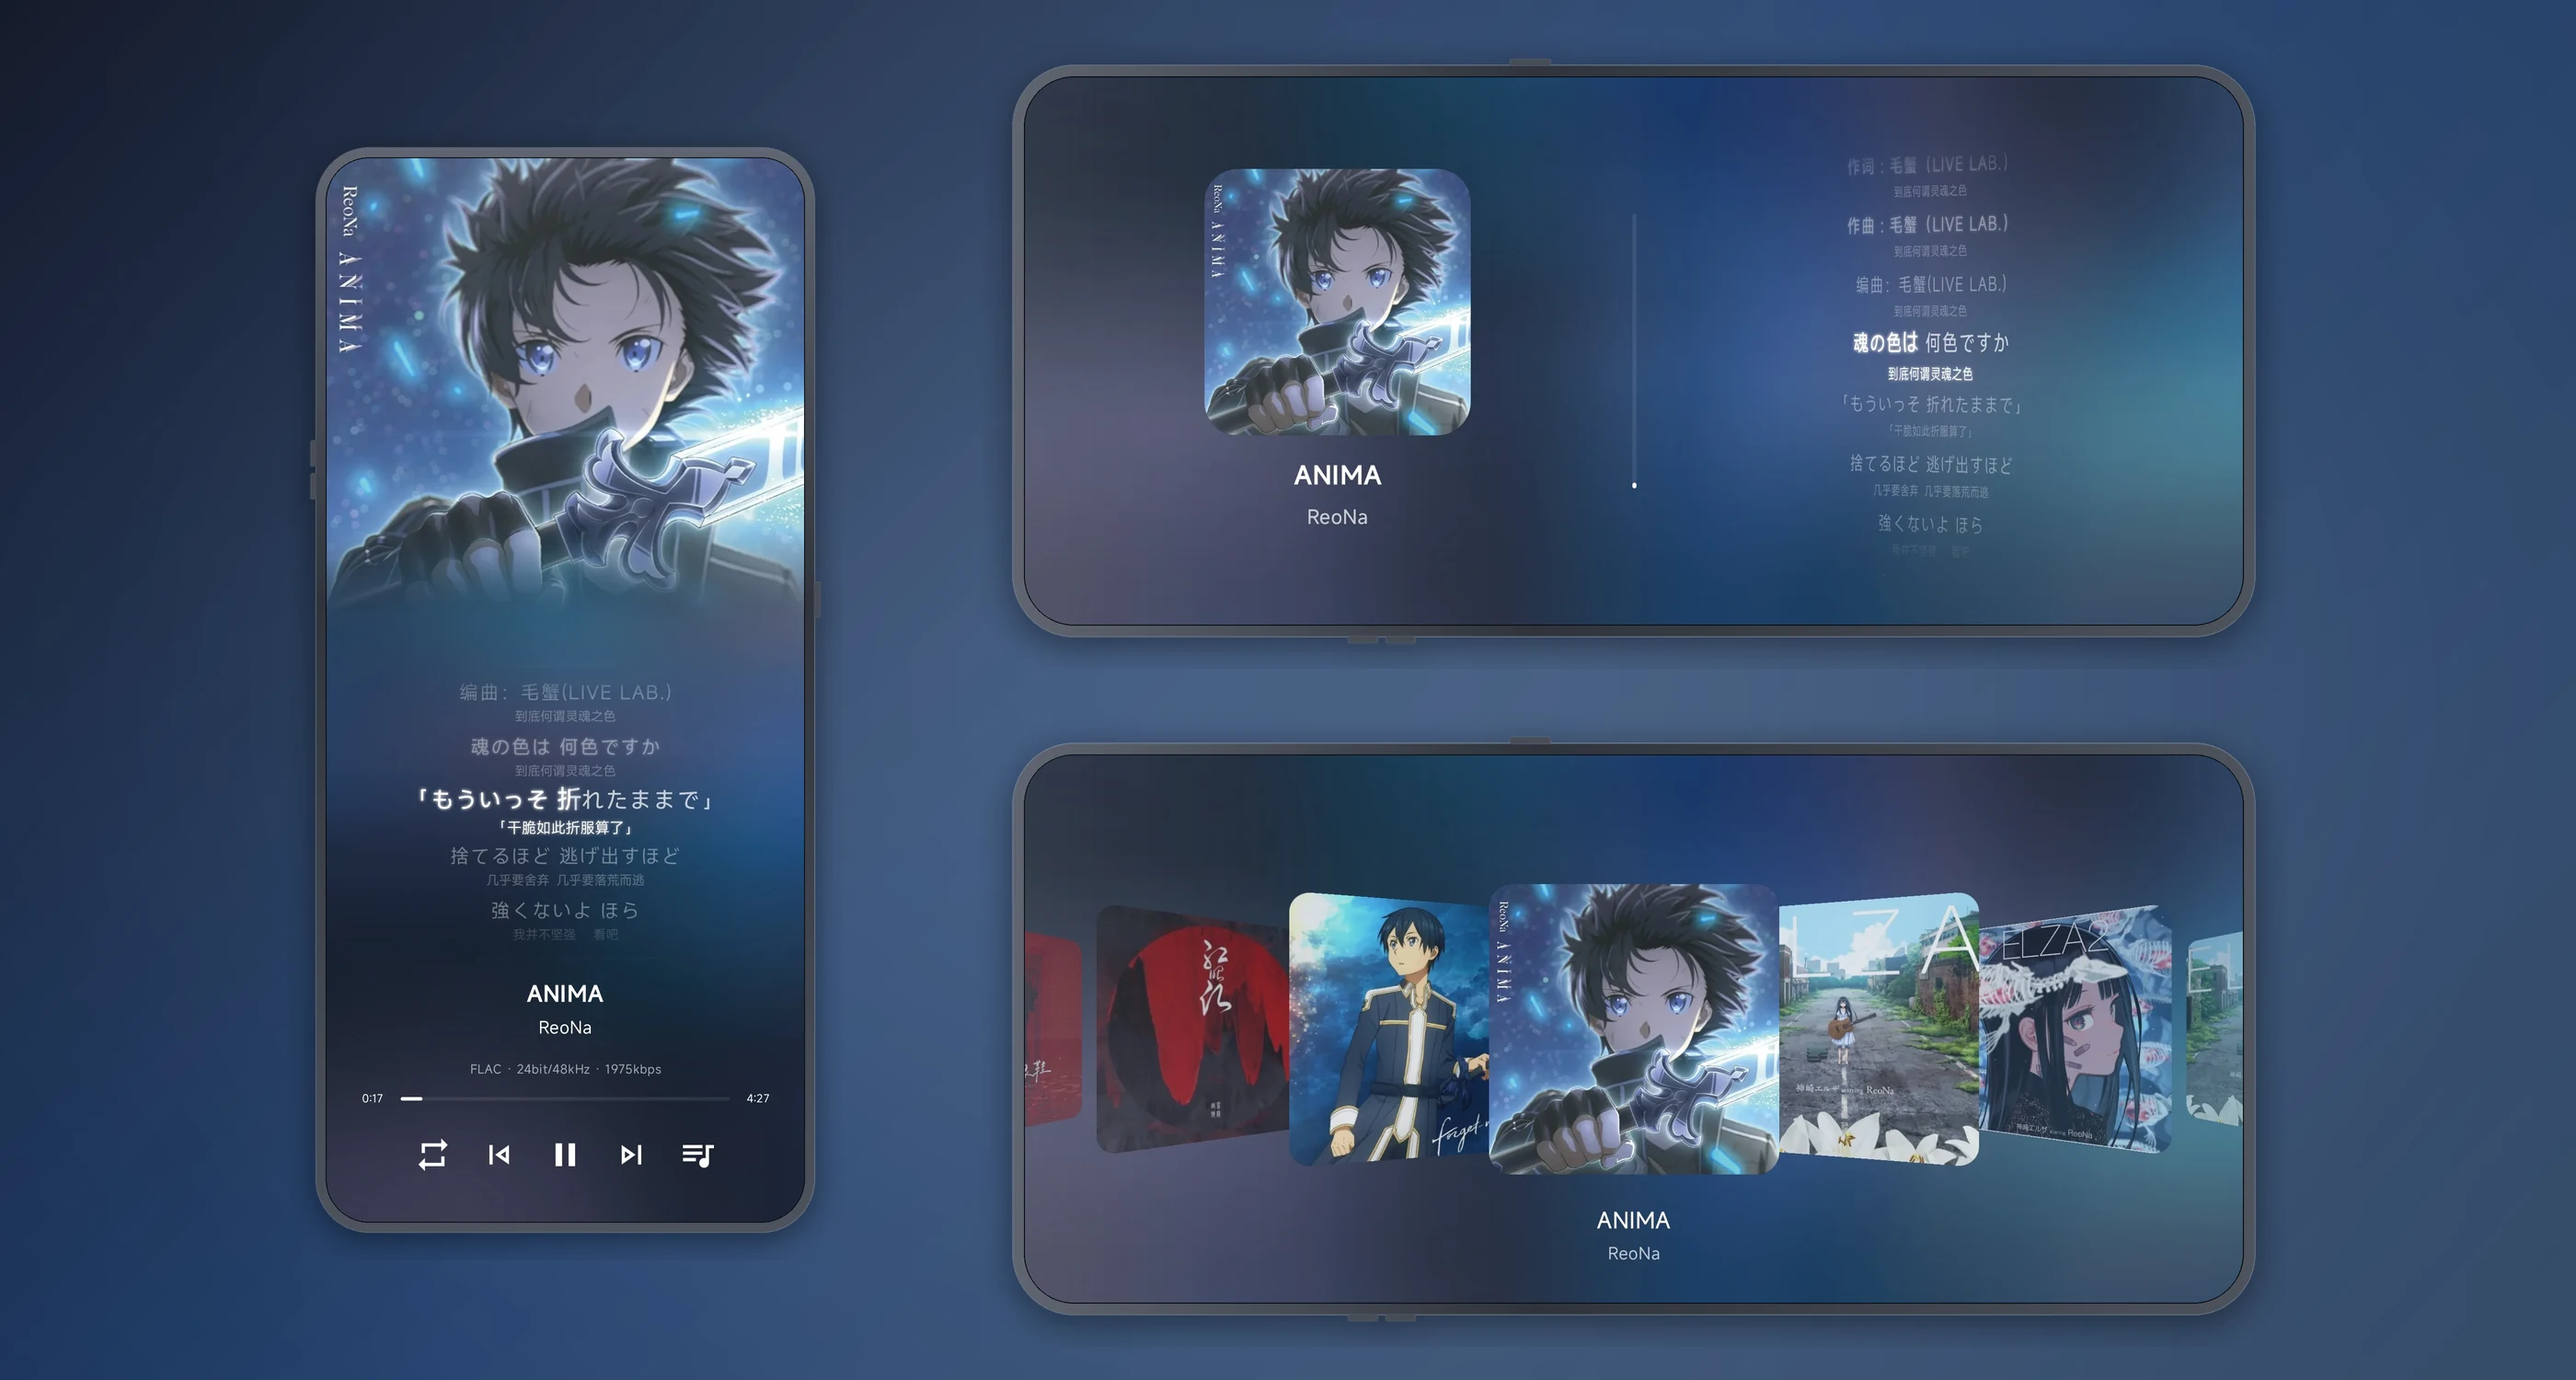
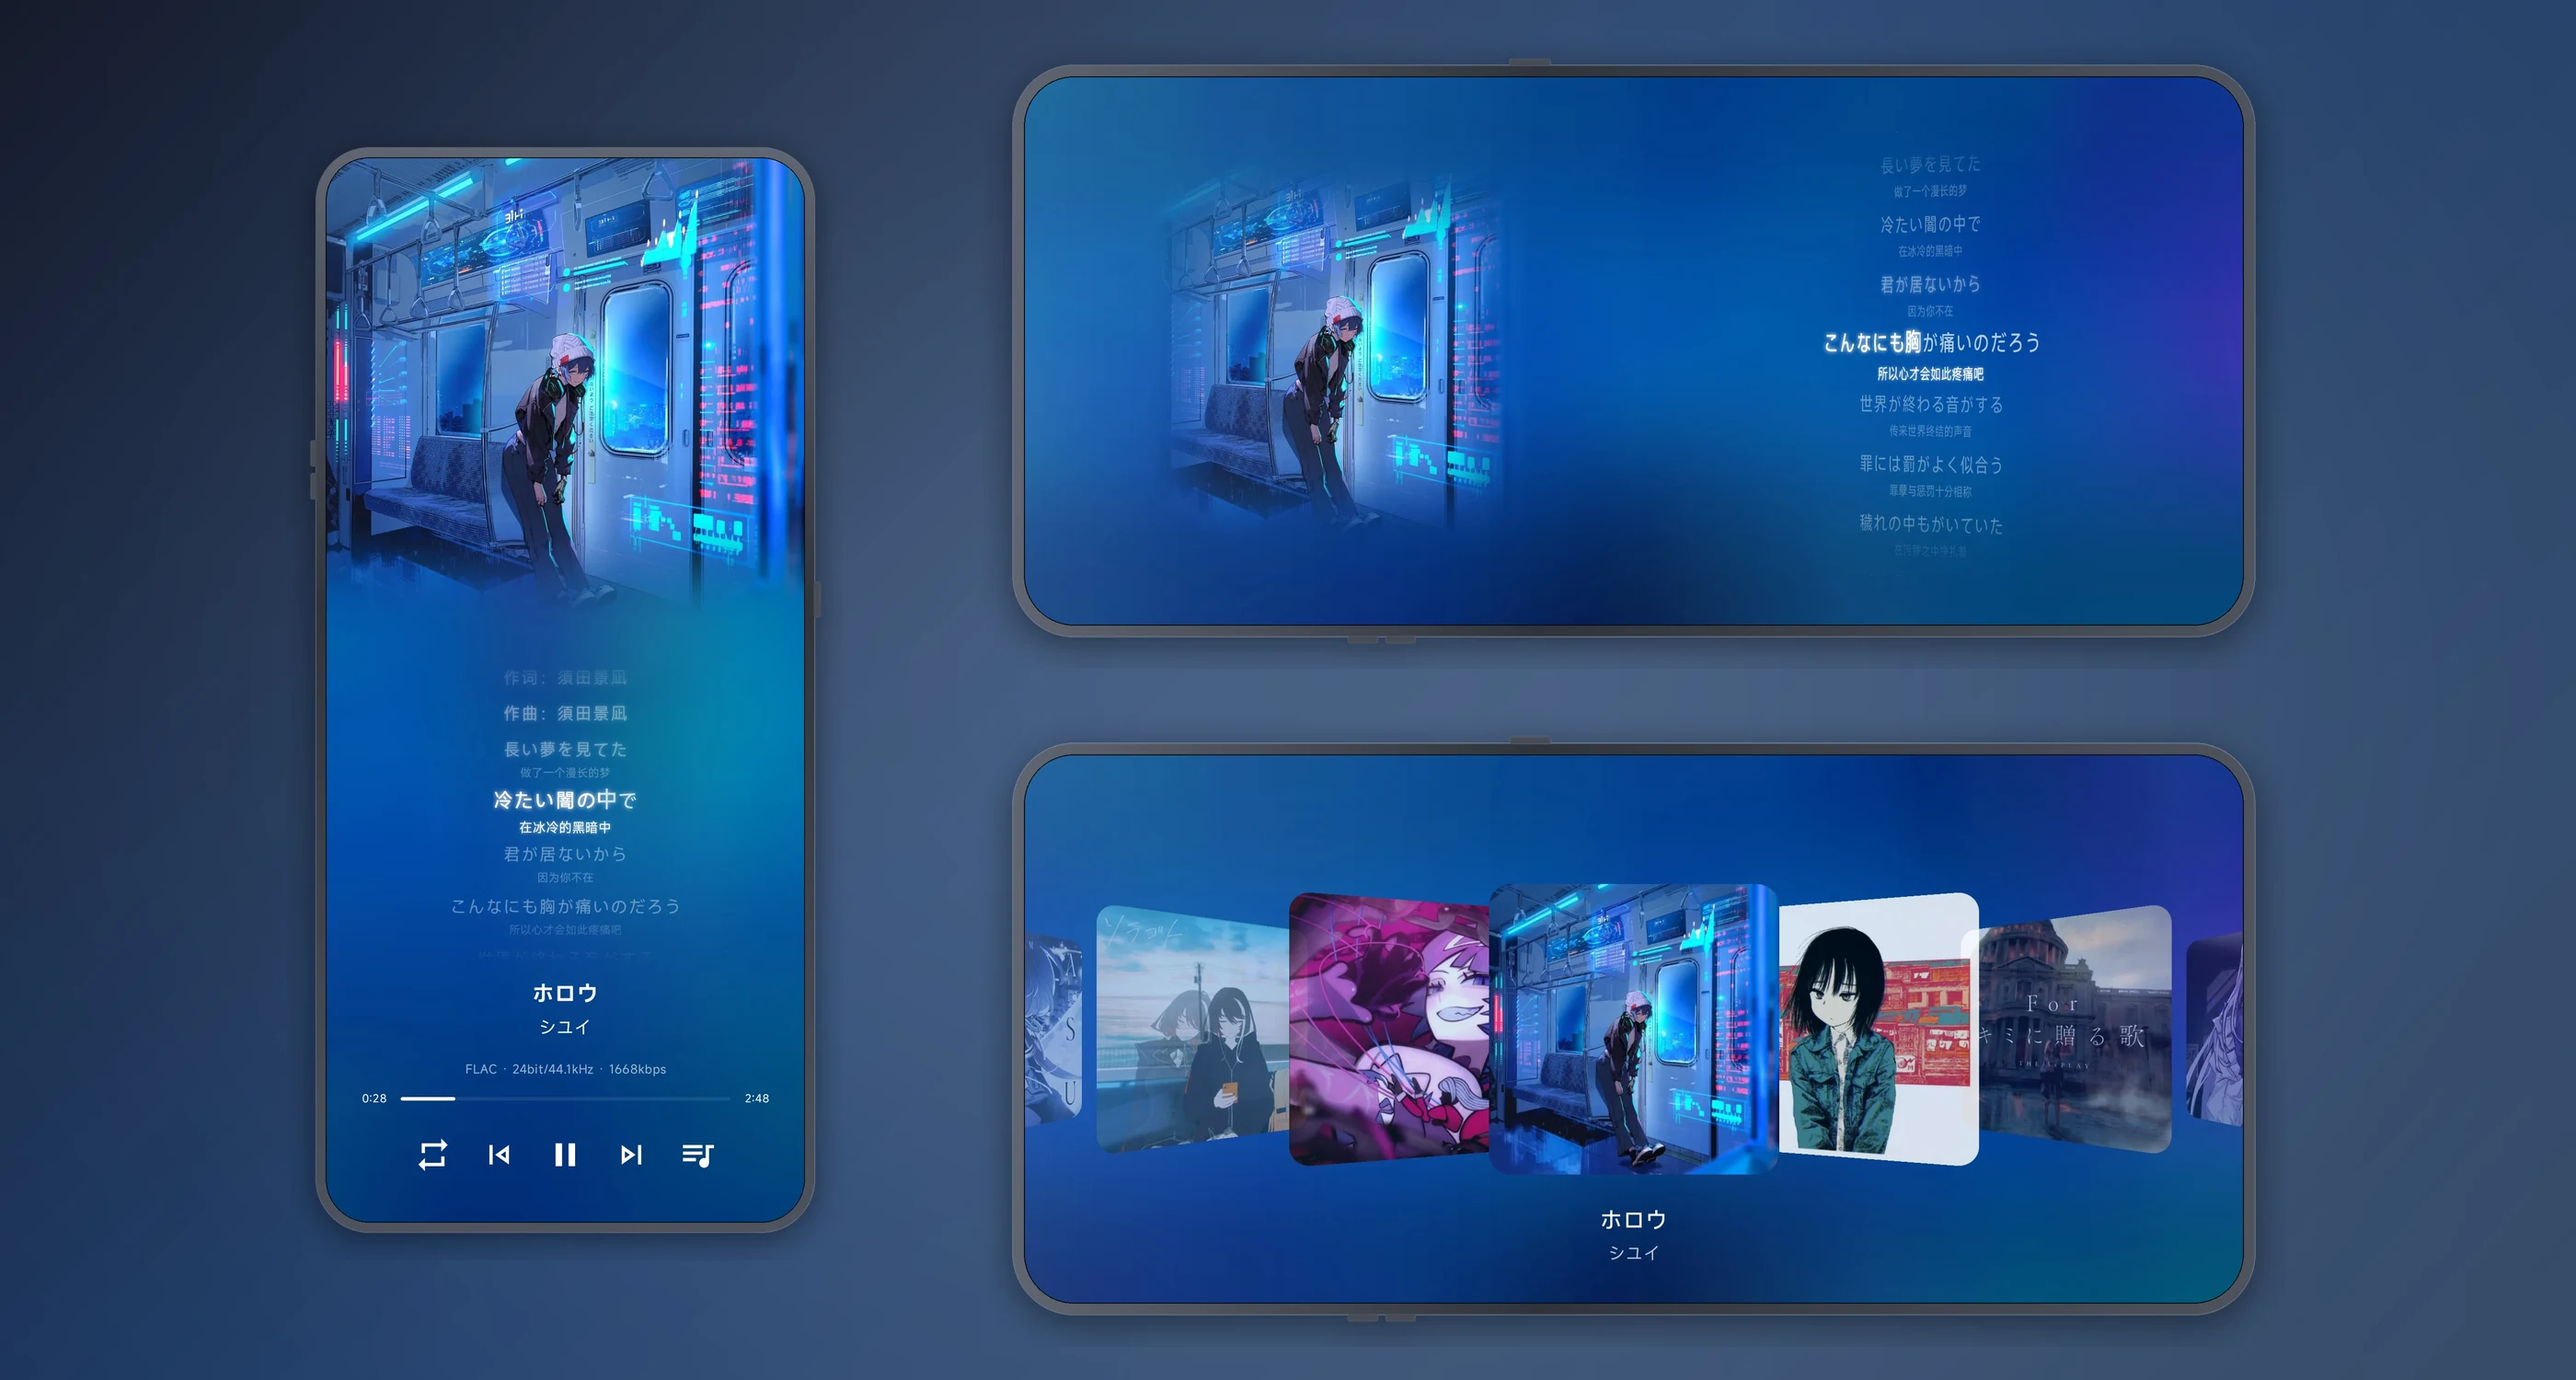
docs: 更新文档与截图，升级版本至4.7.0
更新README及中文README中的版本号与Kotlin版本，替换宣传与设备截图，优化APK体检报告内容，精简音频分析相关描述

diff --git a/docs/APK体积与性能报告.md b/docs/APK体积与性能报告.md
@@ -1,8 +1,8 @@
-# APK 体检报告：EchoTideMusic-4.5.7-arm64-v8a.apk
+# APK 体检报告：EchoTideMusic-4.7.0-arm64-v8a.apk
 
-- 应用：`com.yichao.evilgodxu` 4.5.7
-- 体积：5.37 MiB（5627947 字节）
-- 条目：40，容器开销 32.5 KiB
+- 应用：`com.yichao.evilgodxu` 4.7.0
+- 体积：5.22 MiB（5474659 字节）
+- 条目：40，容器开销 23.9 KiB
 - 构建工具：build-tools 37.0.0
 - ZIP 对齐：通过
 - 后处理可回收：97 B
@@ -17,25 +17,25 @@
 
 | 分组 | 条目 | 原始 | 占用 | 占比 |
 | --- | ---: | ---: | ---: | ---: |
-| `classes2.dex` | 1 | 5.15 MiB | 5.15 MiB | 96.4% |
-| `resources.arsc` | 1 | 70.0 KiB | 70.0 KiB | 1.3% |
-| `assets/` | 3 | 141.1 KiB | 53.0 KiB | 1.0% |
-| `classes.dex` | 1 | 21.6 KiB | 21.6 KiB | 0.4% |
+| `classes2.dex` | 1 | 5.01 MiB | 5.01 MiB | 96.5% |
+| `resources.arsc` | 1 | 64.6 KiB | 64.6 KiB | 1.2% |
+| `assets/` | 3 | 141.0 KiB | 52.9 KiB | 1.0% |
+| `classes.dex` | 1 | 21.5 KiB | 21.5 KiB | 0.4% |
 | `lib/**/*.so` | 2 | 17.5 KiB | 17.5 KiB | 0.3% |
-| `res/` | 17 | 19.6 KiB | 17.0 KiB | 0.3% |
+| `res/` | 17 | 19.0 KiB | 16.8 KiB | 0.3% |
 | `kotlin/` | 8 | 52.7 KiB | 12.1 KiB | 0.2% |
 | `AndroidManifest.xml` | 1 | 13.2 KiB | 3.2 KiB | 0.1% |
-| `META-INF/` | 6 | 350 B | 333 B | 0.0% |
+| `META-INF/` | 6 | 350 B | 332 B | 0.0% |
 
 ## 最大条目
 
 | 条目 | 原始 | 占用 | 方式 |
 | --- | ---: | ---: | --- |
-| `classes2.dex` | 5.15 MiB | 5.15 MiB | STORED |
-| `resources.arsc` | 70.0 KiB | 70.0 KiB | STORED |
+| `classes2.dex` | 5.01 MiB | 5.01 MiB | STORED |
+| `resources.arsc` | 64.6 KiB | 64.6 KiB | STORED |
 | `assets/PublicSuffixDatabase.list` | 129.6 KiB | 41.5 KiB | DEFLATE |
-| `classes.dex` | 21.6 KiB | 21.6 KiB | STORED |
-| `assets/dexopt/baseline.prof` | 10.2 KiB | 10.2 KiB | STORED |
+| `classes.dex` | 21.5 KiB | 21.5 KiB | STORED |
+| `assets/dexopt/baseline.prof` | 10.1 KiB | 10.1 KiB | STORED |
 | `lib/arm64-v8a/libandroidx.graphics.path.so` | 9.9 KiB | 9.9 KiB | STORED |
 | `lib/arm64-v8a/libdatastore_shared_counter.so` | 7.6 KiB | 7.6 KiB | STORED |
 | `kotlin/kotlin.kotlin_builtins` | 30.8 KiB | 5.4 KiB | DEFLATE |
@@ -52,9 +52,9 @@
 | 条目 | 体积变化 | 原因 |
 | --- | ---: | --- |
 | `assets/PublicSuffixDatabase.list` | -28 B | 已 deflate，压缩级别提升至 9 |
-| `META-INF/services/a8` | -2 B | deflate 无收益，改回未压缩存储以减少解压开销 |
-| `META-INF/services/lz2` | -2 B | deflate 无收益，改回未压缩存储以减少解压开销 |
-| `META-INF/services/qa0` | -2 B | deflate 无收益，改回未压缩存储以减少解压开销 |
+| `META-INF/services/d90` | -2 B | deflate 无收益，改回未压缩存储以减少解压开销 |
+| `META-INF/services/kx2` | -2 B | deflate 无收益，改回未压缩存储以减少解压开销 |
+| `META-INF/services/q7` | -2 B | deflate 无收益，改回未压缩存储以减少解压开销 |
 | `kotlin/collections/collections.kotlin_builtins` | -18 B | 已 deflate，压缩级别提升至 9 |
 | `kotlin/kotlin.kotlin_builtins` | -36 B | 已 deflate，压缩级别提升至 9 |
 | `kotlin/reflect/reflect.kotlin_builtins` | -9 B | 已 deflate，压缩级别提升至 9 |

diff --git a/README.md b/README.md
@@ -12,8 +12,8 @@
 
 ![License](https://img.shields.io/badge/license-AGPL--3.0-blue)
 ![Platform](https://img.shields.io/badge/platform-Android-brightgreen)
-![Version](https://img.shields.io/badge/version-4.5.7-informational)
-![Kotlin](https://img.shields.io/badge/Kotlin-2.4.20-purple)
+![Version](https://img.shields.io/badge/version-4.7.0-informational)
+![Kotlin](https://img.shields.io/badge/Kotlin-2.4.21-purple)
 ![AGP](https://img.shields.io/badge/AGP-9.4.1-blue)
 ![Gradle](https://img.shields.io/badge/Gradle-9.8.0-blue)
 ![Compose BOM](https://img.shields.io/badge/Compose%20BOM-2026.09.00-blue)
@@ -38,7 +38,7 @@ Both portrait and landscape are designed for minimal distraction and maximum imm
 
 | Layer | Technology |
 | --- | --- |
-| Language | Kotlin 2.4.20 |
+| Language | Kotlin 2.4.21 |
 | UI | Jetpack Compose (BOM 2026.09.00) + Material 3 |
 | Playback | Media3 ExoPlayer 1.11.1 + MediaSessionService |
 | Navigation | AndroidX Navigation3 1.2.0 (typed routes) |
@@ -63,10 +63,10 @@ Both portrait and landscape are designed for minimal distraction and maximum imm
 │       │   │   ├── cache/               #   Cache inventory (categories, usage, cold-start reclaim)
 │       │   │   ├── music/               #   Music scanning / online sources / metadata / proxy source
 │       │   │   │   ├── api/             #     Search services, translation endpoint & HTTP client
-│       │   │   │   ├── analysis/        #     Lossless-format, audio info, word-level lyric alignment, FFT & full-track spectrogram, per-frame energy envelope
+│       │   │   │   ├── analysis/        #     Lossless-format, audio info, word-level lyric alignment, FFT & full-track spectrogram
 │       │   │   │   ├── clip/            #     Sharing, default ringtone / alarm installer, readable URIs, spectrum image export
 │       │   │   │   ├── download/        #     Online track download & cache
-│       │   │   │   ├── highlight/       #     Chorus (highlight) location (lyric structure + audio energy) & whole-library segment table (background scan + persist), drives chorus-only playback
+│       │   │   │   ├── highlight/       #     Chorus (highlight) location (pure lyric analysis) & whole-library segment table (background scan + persist), drives chorus-only playback
 │       │   │   │   ├── metadata/        #     Cover management, metadata & lyric read/write (ranged streaming tag I/O), metadata cache, gallery image writes
 │       │   │   │   ├── model/           #     Track & search data models (platform key as identity)
 │       │   │   │   ├── panel/           #     Panel state holder, search logic & lyric alignment entry

diff --git a/README.zh-CN.md b/README.zh-CN.md
@@ -12,8 +12,8 @@
 
 ![License](https://img.shields.io/badge/license-AGPL--3.0-blue)
 ![Platform](https://img.shields.io/badge/platform-Android-brightgreen)
-![Version](https://img.shields.io/badge/version-4.5.7-informational)
-![Kotlin](https://img.shields.io/badge/Kotlin-2.4.20-purple)
+![Version](https://img.shields.io/badge/version-4.7.0-informational)
+![Kotlin](https://img.shields.io/badge/Kotlin-2.4.21-purple)
 ![AGP](https://img.shields.io/badge/AGP-9.4.1-blue)
 ![Gradle](https://img.shields.io/badge/Gradle-9.8.0-blue)
 ![Compose BOM](https://img.shields.io/badge/Compose%20BOM-2026.09.00-blue)
@@ -38,7 +38,7 @@
 
 | 层次 | 技术 |
 | --- | --- |
-| 语言 | Kotlin 2.4.20 |
+| 语言 | Kotlin 2.4.21 |
 | UI | Jetpack Compose(BOM 2026.09.00)+ Material 3 |
 | 播放 | Media3 ExoPlayer 1.11.1 + MediaSessionService |
 | 导航 | AndroidX Navigation3 1.2.0(类型安全路由) |
